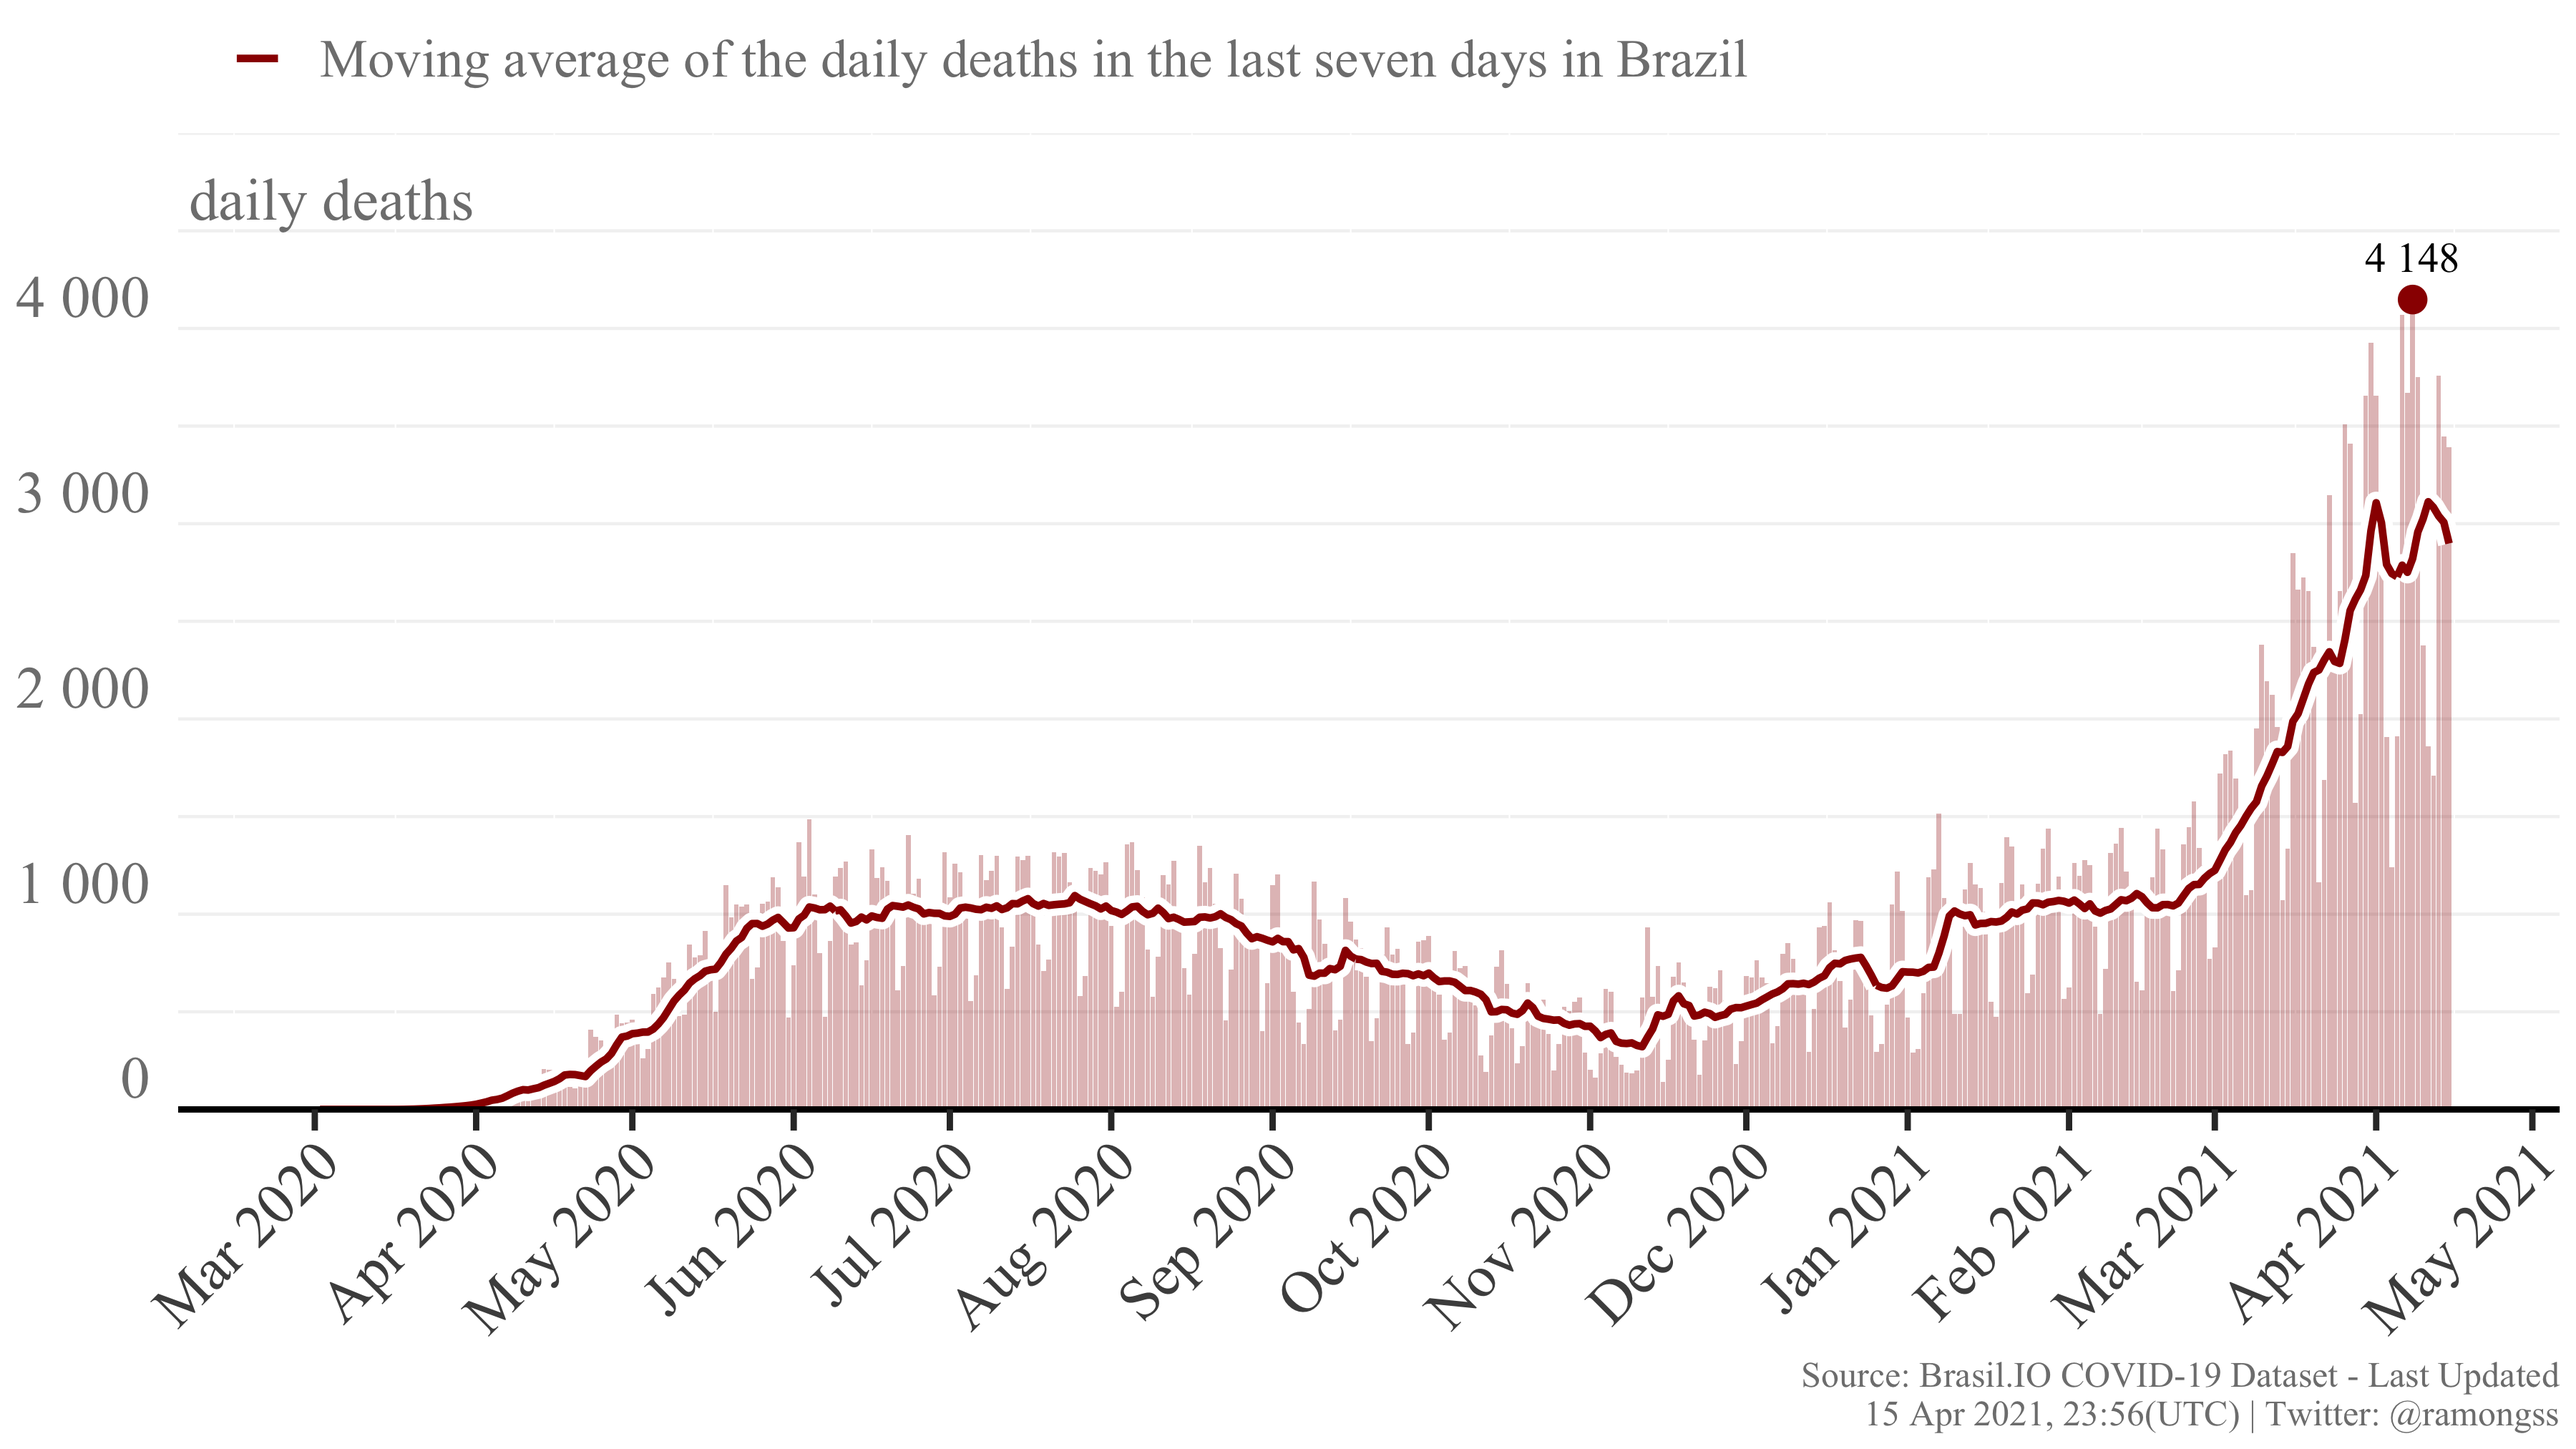
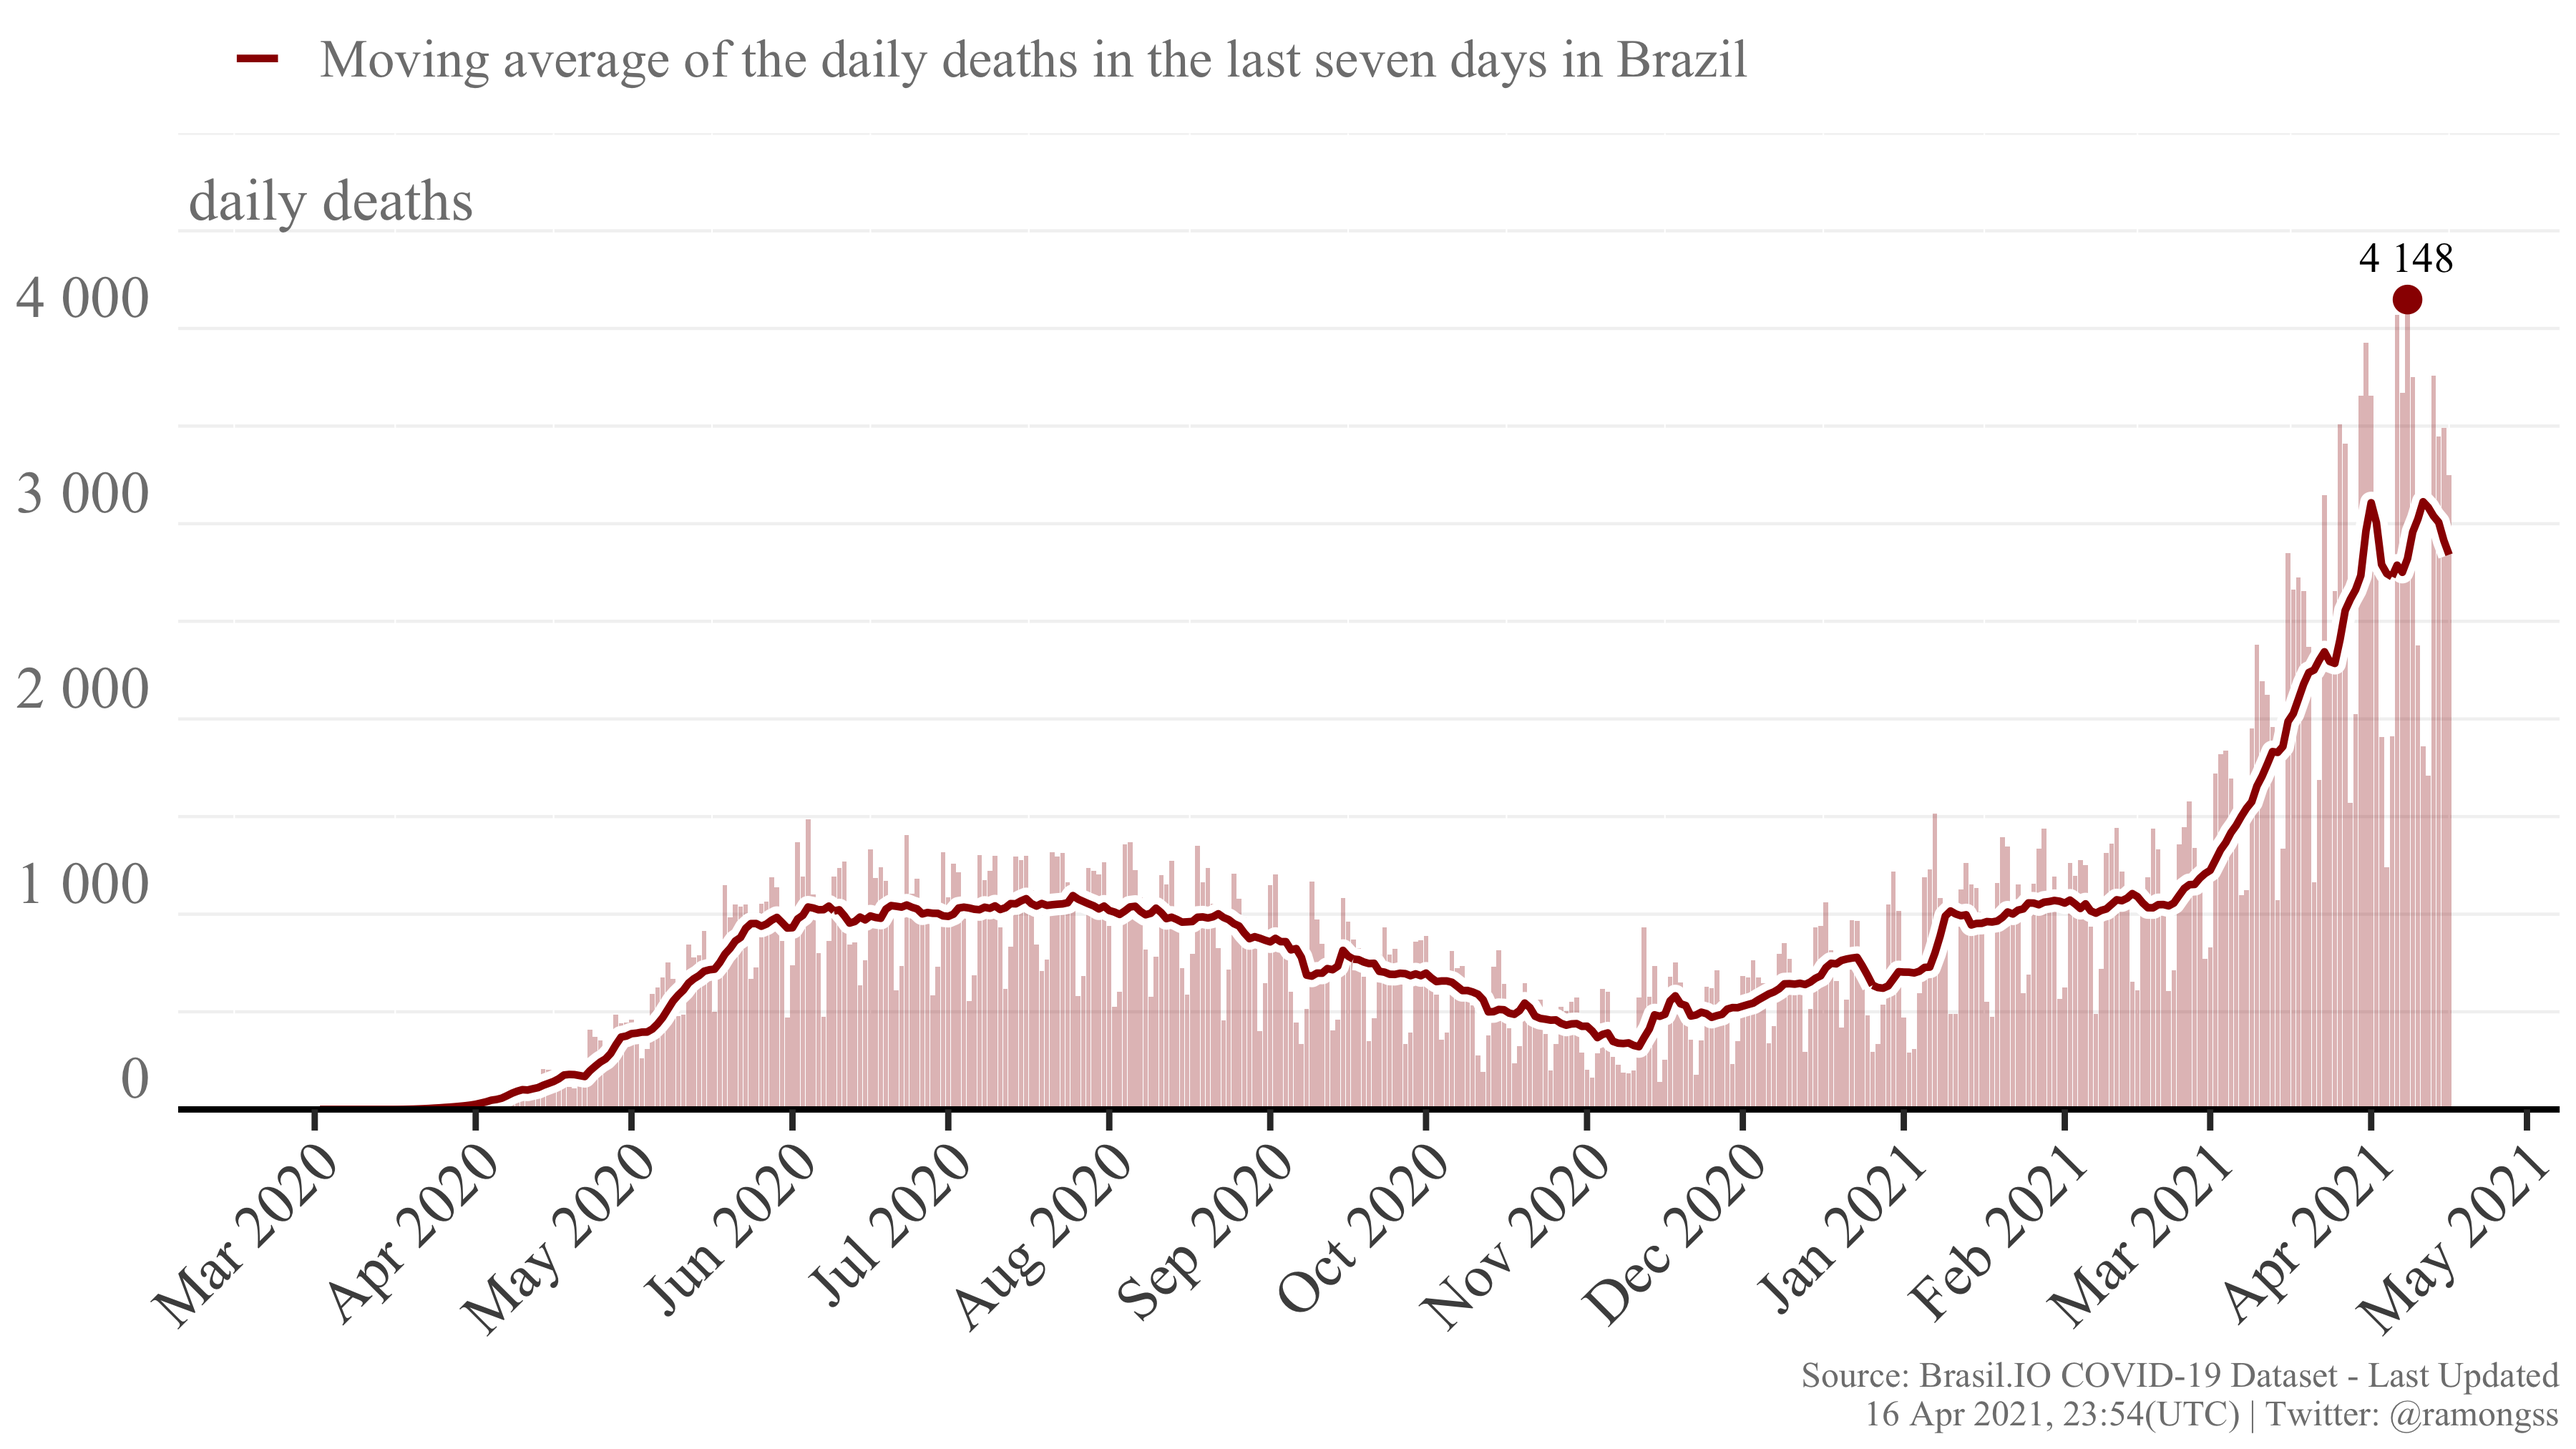
Re-build README.Rmd

diff --git a/README.md b/README.md
@@ -27,8 +27,8 @@ download_brasilio_table <- function(dataset = "covid19", table_name){
 
 ## COVID-19 Confirmed cases
 
-Currently, Brazil has a total of **13,756,521** confirmed cases at **15
-Apr, 2021**, with **68,499** new confirmed cases. The daily maximum
+Currently, Brazil has a total of **13,841,428** confirmed cases at **16
+Apr, 2021**, with **82,221** new confirmed cases. The daily maximum
 incidence was **98,261** confirmed cases at **25 Mar, 2021**. Here
 follows the Figure showing the confirmed case incidence as the bars, and
 the line as the moving average of the last 7 days.
@@ -37,8 +37,8 @@ the line as the moving average of the last 7 days.
 
 ## COVID-19 Deaths
 
-Currently, Brazil has a total of **365,834** deaths at **15 Apr, 2021**,
-with **3,390** new deaths. The daily maximum deaths incidence was
+Currently, Brazil has a total of **369,183** deaths at **16 Apr, 2021**,
+with **3,248** new deaths. The daily maximum deaths incidence was
 **4,148** deaths at **08 Apr, 2021**. Here follows the Figure showing
 the deaths incidence as the bars, and the line as the moving average of
 the last 7 days.
@@ -49,4 +49,4 @@ the last 7 days.
 
 This page is daily updated automatically using Github Actions.
 
-*Last update: 15 Apr 2021, 23:56 (UTC).*
+*Last update: 16 Apr 2021, 23:54 (UTC).*
